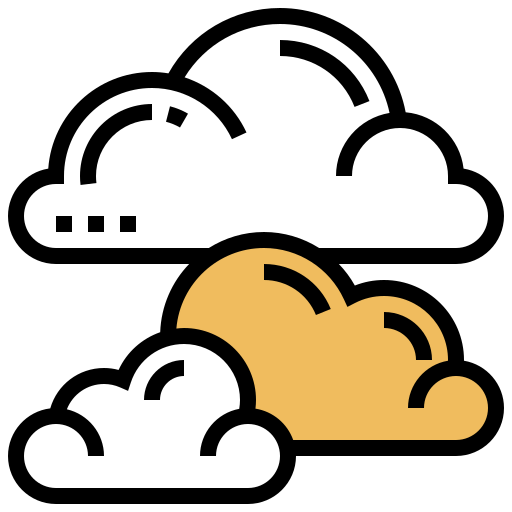
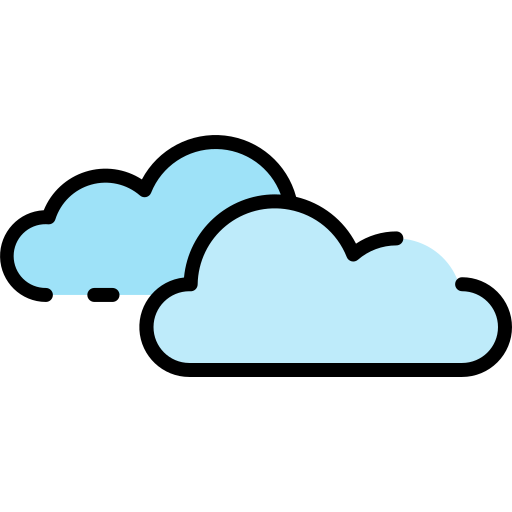
added functionality for clouds

diff --git a/js/obstacle.js b/js/obstacle.js
@@ -4,7 +4,6 @@ let obstacleInterval;
 function createObstacle() {
   let obstacle = $('<img id="obstacle" class="obstacle" src="assets/cactus.png"></img>');
   $("#game-container").append(obstacle);
-  obstacle.css("right", "-50px");
 
   obstacle.animate({ right: "100vw" }, 2000, "linear", function () {
     $(this).remove();
@@ -36,11 +35,16 @@ function generateAndCheckCollisionWithObstacle() {
 
   obstacleTimeout = setTimeout(() => {
     const obstacle = createObstacle();
+
     obstacleInterval = setInterval(() => {
       checkCollisionWithObstacle(obstacle);
     }, 50);
+
+    generateAndCheckCollisionWithObstacle();
   }, randomTime);
 }
+
+function test() {}
 
 function stopGenerateObstacle() {
   clearInterval(obstacleInterval);

diff --git a/index.html b/index.html
@@ -15,12 +15,14 @@
         <button id="pause-button">Pause</button>
         <img id="duck" src="assets/duck_1.png"></img>
         <img id="speakerIcon" src="assets/unmute.png" alt="Unmute">
+        <div class="floor"></div>
     </div>
     
     <script src="js/duck.js"></script>
     <script src="js/coin.js"></script>
-    <script src="js/game.js"></script>
     <script src="js/obstacle.js"></script>
+    <script src="js/cloud.js"></script>
+    <script src="js/game.js"></script>
     <script src="js/sound.js"></script>
     
     <audio id="coin-sound" src="assets/coin-257878.mp3" preload="auto"></audio>

diff --git a/style/style.css b/style/style.css
@@ -11,12 +11,20 @@ body {
   position: relative;
   overflow: hidden;
 }
+.floor {
+  position: absolute;
+  bottom: 0;
+  height: 10px;
+  width: 100vw;
+  background-color: rgb(0, 0, 0);
+}
 #duck {
   width: 50px;
   height: 50px;
   position: absolute;
   bottom: 10px;
   left: 50px;
+  z-index: 4;
 }
 #obstacle {
   width: 40px;
@@ -37,4 +45,16 @@ body {
   position: absolute;
   top: 10px;
   right: 20px;
+}
+.cloud {
+  width: 160px;
+  height: 160px;
+  position: absolute;
+  right: -160px;
+  z-index: 0;
+}
+button,
+img {
+  position: relative;
+  z-index: 2;
 }

diff --git a/js/game.js b/js/game.js
@@ -1,10 +1,12 @@
 let score = 0;
-let lvl = 1;
+let gameLevel = 1;
 let obstacleTravelTime = [1500, 1000, 800];
 let coinTravelTime = [2000, 1600, 1200];
 
 function startGame() {
   $("#play-button").click(() => {
+    $("#play-button").remove();
+    initialClouds();
     generateAndCheckCollisionWithCoin();
     generateAndCheckCollisionWithObstacle();
   });
@@ -19,5 +21,4 @@ function pauseGame() {
 
 $(document).ready(() => {
   startGame();
-  // pauseGame();
 });

diff --git a/js/coin.js b/js/coin.js
@@ -28,15 +28,17 @@ function checkCollisionWithCoin(coin) {
     $("#coin-sound")[0].play();
   }
 }
-
 function generateAndCheckCollisionWithCoin() {
   let randomTime = Math.floor(Math.random() * (1200 - 800 + 1)) + 800;
 
   coinTimeout = setTimeout(() => {
     const coin = createCoin();
+
     coinInterval = setInterval(() => {
       checkCollisionWithCoin(coin);
     }, 50);
+
+    generateAndCheckCollisionWithCoin();
   }, randomTime);
 }
 
